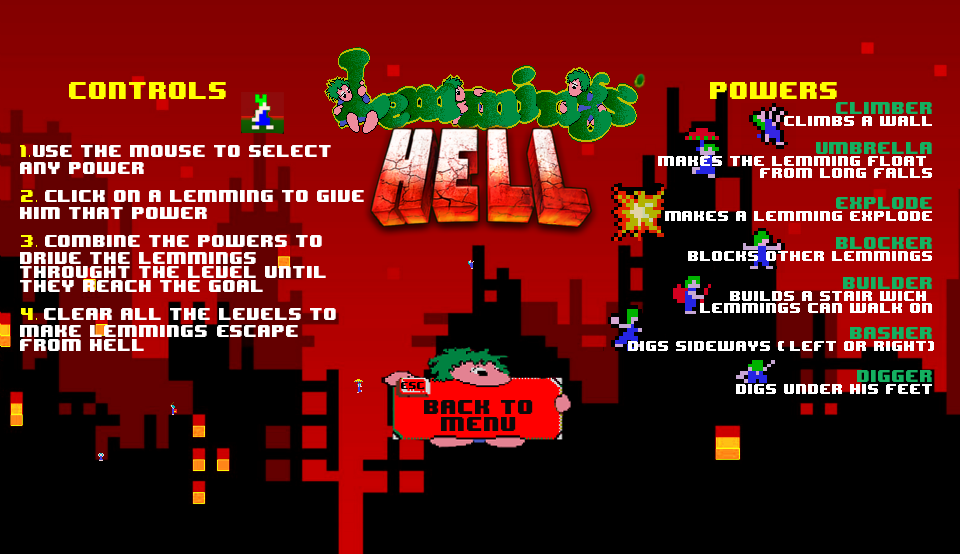
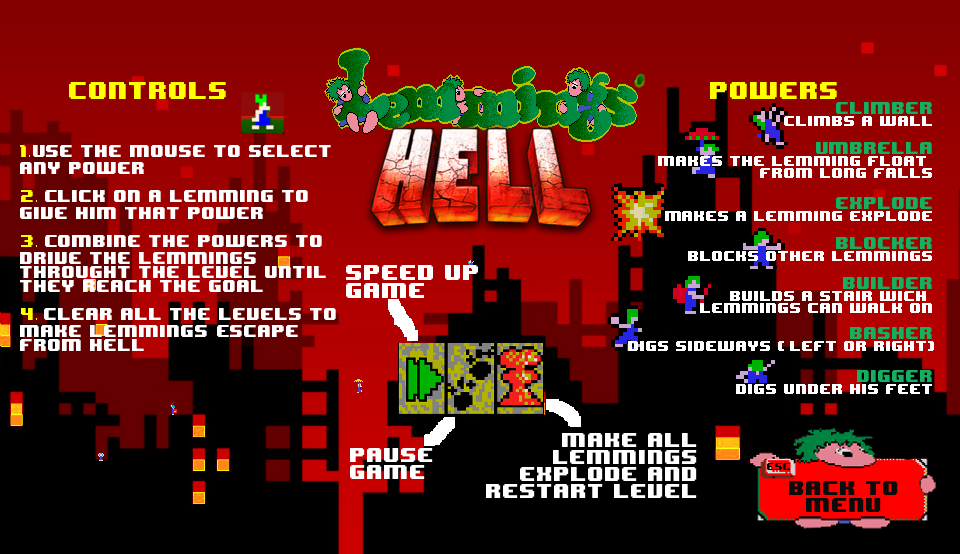
Menu 1

diff --git a/Lemmings/02-Lemming/SceneControls.cpp b/Lemmings/02-Lemming/SceneControls.cpp
@@ -2,30 +2,30 @@
 #include <cmath>
 #include <algorithm>
 #include <glm/gtc/matrix_transform.hpp>
-#include "SceneMenu.h"
+#include "SceneControls.h"
 
 
-SceneMenu::SceneMenu()
+SceneControls::SceneControls()
 {
 	map = NULL;
 }
 
-SceneMenu::~SceneMenu()
+SceneControls::~SceneControls()
 {
-	if(map != NULL)
+	if (map != NULL)
 		delete map;
 }
 
 
-void SceneMenu::init()
+void SceneControls::init()
 {
-	glm::vec2 geom[2] = {glm::vec2(0.f, 0.f), glm::vec2(float(CAMERA_WIDTH), float(CAMERA_HEIGHT))};
-	glm::vec2 texCoords[2] = {glm::vec2(0.f / 512.0, 0.f), glm::vec2(1, 1)};
+	glm::vec2 geom[2] = { glm::vec2(0.f, 0.f), glm::vec2(float(CAMERA_WIDTH), float(CAMERA_HEIGHT)) };
+	glm::vec2 texCoords[2] = { glm::vec2(0.f / 512.0, 0.f), glm::vec2(1, 1) };
 
 	initShaders();
 
 	map = MaskedTexturedQuad::createTexturedQuad(geom, texCoords, maskedTexProgram);
-	colorTexture.loadFromFile("images/menu/menu_full.png", TEXTURE_PIXEL_FORMAT_RGBA);
+	colorTexture.loadFromFile("images/menu/instructions_full.png", TEXTURE_PIXEL_FORMAT_RGBA);
 	colorTexture.setMinFilter(GL_NEAREST);
 	colorTexture.setMagFilter(GL_NEAREST);
 	maskTexture.loadFromFile("images//menu/menu_mask.png", TEXTURE_PIXEL_FORMAT_L);
@@ -36,13 +36,14 @@ void SceneMenu::init()
 	currentTime = 0.0f;
 }
 
+unsigned int x = 0;
 
-void SceneMenu::update(int deltaTime)
+void SceneControls::update(int deltaTime)
 {
 	currentTime += deltaTime;
 }
 
-void SceneMenu::render()
+void SceneControls::render()
 {
 	glm::mat4 modelview;
 
@@ -52,7 +53,7 @@ void SceneMenu::render()
 	modelview = glm::mat4(1.0f);
 	maskedTexProgram.setUniformMatrix4f("modelview", modelview);
 	map->render(maskedTexProgram, colorTexture, maskTexture);
-	
+
 	simpleTexProgram.use();
 	simpleTexProgram.setUniformMatrix4f("projection", projection);
 	simpleTexProgram.setUniform4f("color", 1.0f, 1.0f, 1.0f, 1.0f);
@@ -60,24 +61,24 @@ void SceneMenu::render()
 	simpleTexProgram.setUniformMatrix4f("modelview", modelview);
 }
 
-void SceneMenu::mouseMoved(int mouseX, int mouseY, bool bLeftButton, bool bRightButton)
+void SceneControls::mouseMoved(int mouseX, int mouseY, bool bLeftButton, bool bRightButton)
 {
-	
+
 }
 
 
-void SceneMenu::initShaders()
+void SceneControls::initShaders()
 {
 	Shader vShader, fShader;
 
 	vShader.initFromFile(VERTEX_SHADER, "shaders/texture.vert");
-	if(!vShader.isCompiled())
+	if (!vShader.isCompiled())
 	{
 		cout << "Vertex Shader Error" << endl;
 		cout << "" << vShader.log() << endl << endl;
 	}
 	fShader.initFromFile(FRAGMENT_SHADER, "shaders/texture.frag");
-	if(!fShader.isCompiled())
+	if (!fShader.isCompiled())
 	{
 		cout << "Fragment Shader Error" << endl;
 		cout << "" << fShader.log() << endl << endl;
@@ -86,7 +87,7 @@ void SceneMenu::initShaders()
 	simpleTexProgram.addShader(vShader);
 	simpleTexProgram.addShader(fShader);
 	simpleTexProgram.link();
-	if(!simpleTexProgram.isLinked())
+	if (!simpleTexProgram.isLinked())
 	{
 		cout << "Shader Linking Error" << endl;
 		cout << "" << simpleTexProgram.log() << endl << endl;
@@ -96,13 +97,13 @@ void SceneMenu::initShaders()
 	fShader.free();
 
 	vShader.initFromFile(VERTEX_SHADER, "shaders/maskedTexture.vert");
-	if(!vShader.isCompiled())
+	if (!vShader.isCompiled())
 	{
 		cout << "Vertex Shader Error" << endl;
 		cout << "" << vShader.log() << endl << endl;
 	}
 	fShader.initFromFile(FRAGMENT_SHADER, "shaders/maskedTexture.frag");
-	if(!fShader.isCompiled())
+	if (!fShader.isCompiled())
 	{
 		cout << "Fragment Shader Error" << endl;
 		cout << "" << fShader.log() << endl << endl;
@@ -111,7 +112,7 @@ void SceneMenu::initShaders()
 	maskedTexProgram.addShader(vShader);
 	maskedTexProgram.addShader(fShader);
 	maskedTexProgram.link();
-	if(!maskedTexProgram.isLinked())
+	if (!maskedTexProgram.isLinked())
 	{
 		cout << "Shader Linking Error" << endl;
 		cout << "" << maskedTexProgram.log() << endl << endl;
@@ -120,6 +121,3 @@ void SceneMenu::initShaders()
 	vShader.free();
 	fShader.free();
 }
-
-
-

diff --git a/Lemmings/02-Lemming/Game.cpp b/Lemmings/02-Lemming/Game.cpp
@@ -8,12 +8,45 @@ void Game::init()
 	bPlay = true;
 	bLeftMouse = bRightMouse = false;
 	glClearColor(0.3f, 0.3f, 0.3f, 1.0f);
-	scene.init();
+	current_scene = MENU;
+	sceneMenu.init();
 }
 
 bool Game::update(int deltaTime)
 {
-	scene.update(deltaTime);
+	switch (current_scene) {
+	case MENU:
+		sceneMenu.update(deltaTime);
+		break;
+
+	case LEVEL1:
+		sceneTuto.update(deltaTime);
+		break;
+
+	case LEVEL2:
+		break;
+
+	case LEVEL3:
+		break;
+
+	case CONTROLS:
+		sceneControls.update(deltaTime);
+		break;
+
+	case WIN_LEVEL:
+		break;
+
+	case FAIL_LEVEL:
+		break;
+
+	case CREDITS:
+		break;
+
+	default:
+		break;
+	}
+		
+		
 	
 	return bPlay;
 }
@@ -21,14 +54,93 @@ bool Game::update(int deltaTime)
 void Game::render()
 {
 	glClear(GL_COLOR_BUFFER_BIT | GL_DEPTH_BUFFER_BIT);
-	scene.render();
+	
+	switch (current_scene) {
+	case MENU:
+		sceneMenu.render();
+		break;
+
+	case LEVEL1:
+		sceneTuto.render();
+		break;
+
+	case LEVEL2:
+		break;
+
+	case LEVEL3:
+		break;
+
+	case CONTROLS:
+		sceneControls.render();
+		break;
+
+	case WIN_LEVEL:
+		break;
+
+	case FAIL_LEVEL:
+		break;
+
+	case CREDITS:
+		break;
+	default:
+		break;
+	}
 }
 
 void Game::keyPressed(int key)
 {
-	if(key == 27) // Escape code
-		bPlay = false;
-	keys[key] = true;
+	switch (current_scene)
+	{
+	case MENU:
+		if (key == 27) // Escape code
+			bPlay = false;
+		if (key == 48 || key == 49) { //0 and 1 code
+			current_level = 1;
+			current_scene = LEVEL1;
+			sceneTuto.init();
+		}
+		if (key == 50) {			//2 code
+			current_level = 2;
+			current_scene = LEVEL2;
+		}
+		if (key == 51) {			//3 code
+			current_level = 3;
+			current_scene = LEVEL3;
+		}
+		if (key == 99) {			//c code
+			current_scene = CONTROLS;
+			sceneControls.init();
+		}
+		keys[key] = true;
+		break;
+	case CONTROLS:
+		if (key == 27) {// Escape code
+			current_scene = MENU;
+			sceneMenu.init();
+		}
+	case WIN_LEVEL:
+		if (key == 27) {// Escape code
+			current_scene = MENU;
+			sceneMenu.init();
+		}
+		break;
+	case FAIL_LEVEL:
+		if (key == 27) {// Escape code
+			current_scene = MENU;
+			sceneMenu.init();
+		}
+		break;
+	case CREDITS:
+		if (key == 27) {// Escape code
+			current_scene = MENU;
+			sceneMenu.init();
+		}
+		break;
+	default:
+		break;
+	}
+	
+
 }
 
 void Game::keyReleased(int key)
@@ -50,7 +162,7 @@ void Game::mouseMove(int x, int y)
 {
 	mouseX = x;
 	mouseY = y;
-	scene.mouseMoved(mouseX, mouseY, bLeftMouse, bRightMouse);
+	sceneMenu.mouseMoved(mouseX, mouseY, bLeftMouse, bRightMouse);
 }
 
 void Game::mousePress(int button)
@@ -58,12 +170,12 @@ void Game::mousePress(int button)
 	if(button == GLUT_LEFT_BUTTON)
 	{
 		bLeftMouse = true;
-		scene.mouseMoved(mouseX, mouseY, bLeftMouse, bRightMouse);
+		sceneMenu.mouseMoved(mouseX, mouseY, bLeftMouse, bRightMouse);
 	}
 	else if(button == GLUT_RIGHT_BUTTON)
 	{
 		bRightMouse = true;
-		scene.mouseMoved(mouseX, mouseY, bLeftMouse, bRightMouse);
+		sceneMenu.mouseMoved(mouseX, mouseY, bLeftMouse, bRightMouse);
 	}
 }
 

diff --git a/Lemmings/02-Lemming/Game.h b/Lemmings/02-Lemming/Game.h
@@ -4,7 +4,9 @@
 
 #include "Scene.h"
 #include "SceneTuto.h"
-//#include "SceneMenu.h"
+#include "SceneMenu.h"
+#include "SceneControls.h"
+
 
 
 // Game is a singleton (a class with a single instance) that represents our whole application
@@ -41,15 +43,23 @@ public:
 	bool getSpecialKey(int key) const;
 
 private:
+	enum Scenes {
+		MENU, LEVEL1, LEVEL2, LEVEL3, CREDITS, CONTROLS, WIN_LEVEL, FAIL_LEVEL
+	};
+
 	bool bPlay;   // Continue to play game?
-	//Scene scene;
-	SceneTuto scene;// tuto;			  // Scene to render
-	//SceneMenu sceneMenu;
+	Scene scene;
+	SceneTuto sceneTuto;
+	SceneMenu sceneMenu;
+	SceneControls sceneControls;
+	Scenes current_scene;
+	int current_level;
 	bool keys[256], specialKeys[256]; // Store key states so that 
 	                                  // we can have access at any time
 	int mouseX, mouseY;               // Mouse position
 	bool bLeftMouse, bRightMouse;     // Mouse button states
 
+	
 };
 
 

diff --git a/Lemmings/02-Lemming/SceneControls.h b/Lemmings/02-Lemming/SceneControls.h
@@ -1,5 +1,6 @@
-#ifndef _SCENEMENU_INCLUDE
-#define _SCENEMENU_INCLUDE
+
+#ifndef _SCENECONTROLS_INCLUDE
+#define _SCENECONTROLS_INCLUDE
 
 
 #include <glm/glm.hpp>
@@ -12,17 +13,17 @@
 // It is responsible for updating and render them.
 
 
-class SceneMenu
+class SceneControls
 {
 
 public:
-	SceneMenu();
-	~SceneMenu();
+	SceneControls();
+	~SceneControls();
 
 	void init();
 	void update(int deltaTime);
 	void render();
-	
+
 	void mouseMoved(int mouseX, int mouseY, bool bLeftButton, bool bRightButton);
 
 private:
@@ -39,5 +40,5 @@ private:
 };
 
 
-#endif // _SCENEMENU_INCLUDE
+#endif // _SCENECONTROLS_INCLUDE
 
